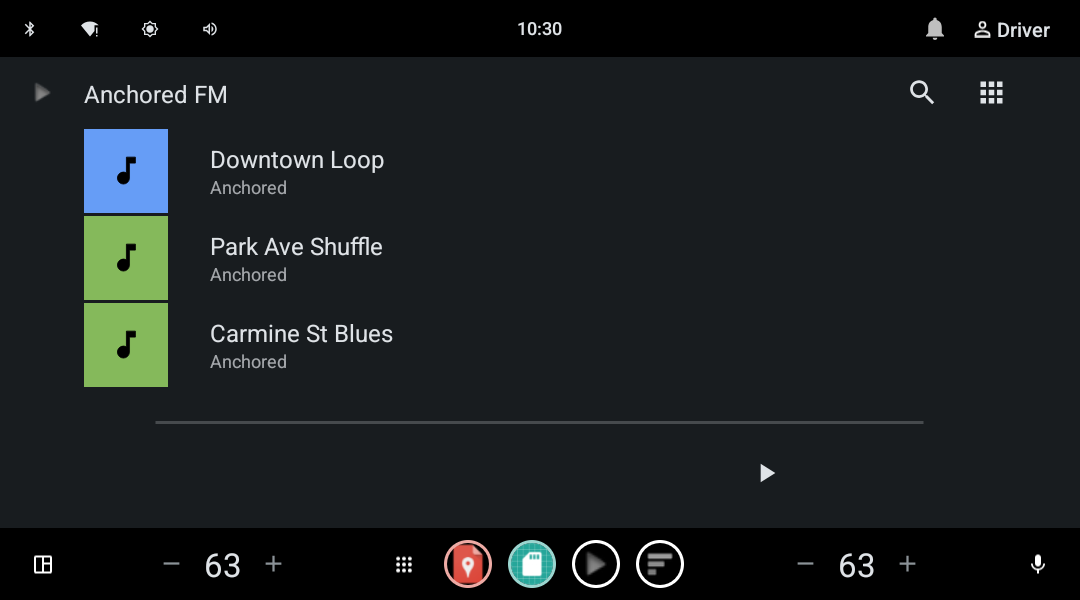
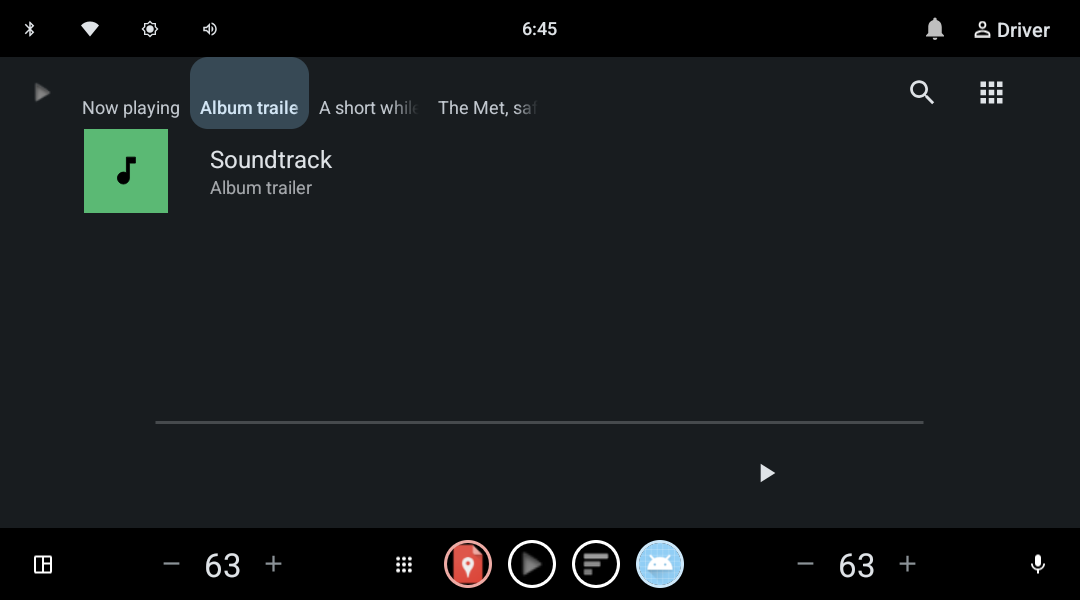
Demo: emulator evidence for the template library (step 3b) (#68)
12 screenshots + sidecars on AAOS_35, one per new template case per
host (grid, sign-in, long-message, tab, map, place-list-nav), all at
BASELINE via the CASE broadcast. Logcat proves every Host A case
rendered its template (Grid/SignIn/LongMessage/Tab/Map/
PlaceListNavigation) and Host B re-rendered each. Re-captures
host-a-media-browse: the Corpus catalog (4 playlists) replaces the
retired Anchored FM shots' content. Evidence gate 34/34.

diff --git a/scripts/check-screenshot-evidence.py b/scripts/check-screenshot-evidence.py
@@ -52,6 +52,18 @@ EXPECTED = {
     "host-a-weather-list.png",
     "host-a-media-sources.png",
     "host-a-media-browse.png",
+    "host-a-grid-artwork.png",
+    "host-a-signin.png",
+    "host-a-long-message.png",
+    "host-a-tab-library.png",
+    "host-a-map-route.png",
+    "host-a-place-list-nav.png",
+    "host-b-grid-artwork.png",
+    "host-b-signin.png",
+    "host-b-long-message.png",
+    "host-b-tab-library.png",
+    "host-b-map-route.png",
+    "host-b-place-list-nav.png",
 }
 REQUIRED_METADATA = {
     "commit", "host", "package", "display", "state", "command", "sha256", "captured_at"
